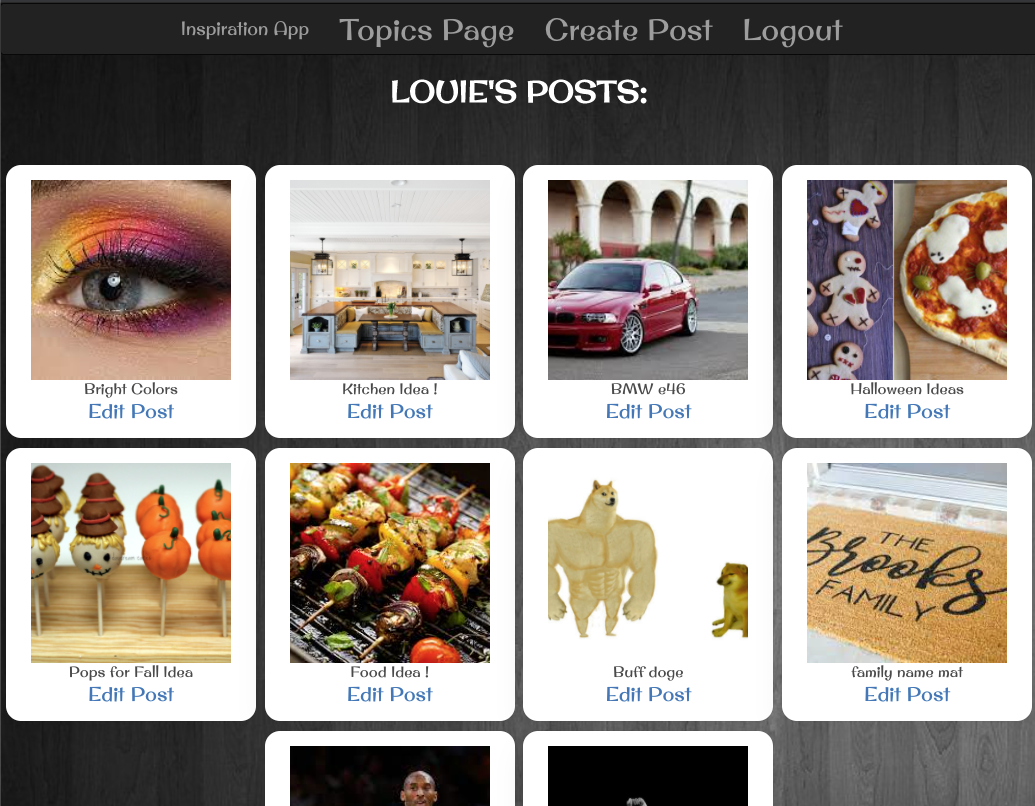
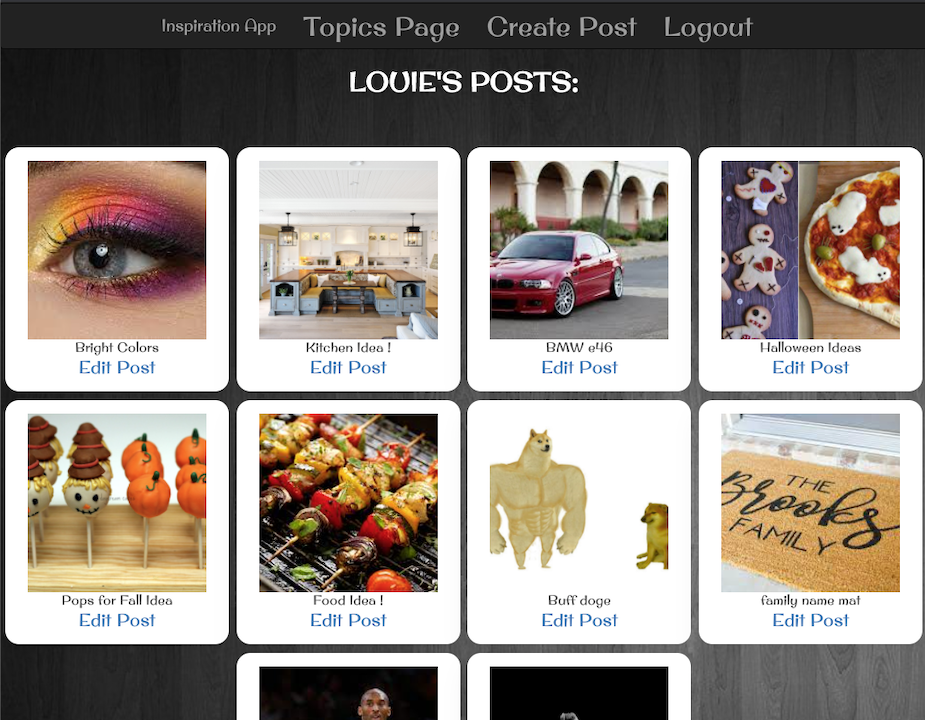
corrected the carousel image sizes and created links to  github and linkedin on the contact page

diff --git a/src/index.css b/src/index.css
@@ -6,6 +6,7 @@ body {
   -webkit-font-smoothing: antialiased;
   -moz-osx-font-smoothing: grayscale;
   background-image: url("https://images.unsplash.com/photo-1614481327033-68e5df399653?ixlib=rb-1.2.1&ixid=MnwxMjA3fDB8MHxleHBsb3JlLWZlZWR8NzR8fHxlbnwwfHx8fA%3D%3D&auto=format&fit=crop&w=400&q=60");
[1 lines of base64/hex data omitted]
   background-size: cover;
   text-align: center;
 }
@@ -15,21 +16,30 @@ code {
     monospace;
 }
 
+img {
+  width: 450px;
+  height: 300px;
+  object-fit: contain;
+}
+
 .home-img {
   width: 150px;
-  border-radius: 50%;
+  object-fit: cover;
+  border-radius: 100px;
   margin-bottom: 10%;
   filter: grayscale(100%);
   box-shadow: 2px 2px 8px;
 }
 
 .about-img {
-  width: 150px;
-  border-radius: 50%;
+  width: 200px;
+  height: 250px;
+  border-radius: 20%;
   margin: 0px 5px;
   border-radius: 20px;
   filter: grayscale(100%);
   box-shadow: 2px 2px 8px;
+  object-fit: cover;
 }
 
 .content-container {
@@ -77,10 +87,6 @@ code {
 
 .project-card {
   margin: 10%;
-}
-
-.project-image {
-  width: 500px;
 }
 
 .about-me {

diff --git a/src/components/contact.js b/src/components/contact.js
@@ -11,12 +11,21 @@ const Contact = () => {
       <h3>
         <strong>GitHub</strong>
       </h3>
-      <h4 className="contact">https://github.com/dezerey11</h4>
+      <h4 className="contact">
+        <a href="https://github.com/dezerey11" target="_blank">
+          https://github.com/dezerey11
+        </a>
+      </h4>
       <h3>
         <strong>LinkedIn</strong>
       </h3>
       <h4 className="contact">
-        https://www.linkedin.com/in/dezerey-esca%C3%B1uelas-a6b9bb210/
+        <a
+          href=" https://www.linkedin.com/in/dezerey-esca%C3%B1uelas-a6b9bb210/"
+          target="_blank"
+        >
+          https://www.linkedin.com/in/dezerey-esca%C3%B1uelas-a6b9bb210/
+        </a>
       </h4>
     </div>
   );
